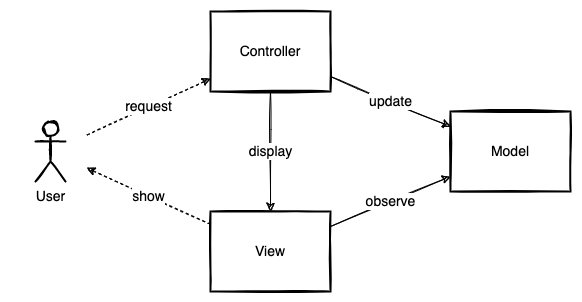
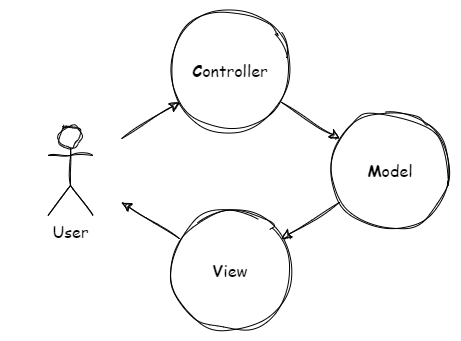
fix: タイトル、本文、挿絵のリファイン

Changed region(s): [[0.2126, 0.0, 1.0, 0.9834], [0.0607, 0.3576, 0.2126, 0.7152], [0.1822, 0.596, 0.3341, 0.6854]]

diff --git a/_posts/2022-03-19-existence-of-content-and-instrumentality-of-user-interface.md b/_posts/2022-03-19-existence-of-content-and-instrumentality-of-user-interface.md
@@ -1,41 +1,61 @@
 ---
 layout: post
-title: 情報・コンテンツの存在とユーザーインタフェースの道具性
+title: 情報・コンテンツの存在と道具としてのユーザーインタフェース
 tags: 
 - software-design
 ---
 
-GUIを分析するには、または設計するにしても、そのGUIを方向づける元になっている情報・コンテンツに焦点を当てます。インタラクティブなアプリケーションは概念的にMVCの形をしています。優れたユーザーインタフェースからは元の情報・コンテンツを感じとることができます。情報・コンテンツの存在はユーザーインタフェースを設計するときにも重要です。
+GUIを分析・設計するには、何を根拠にするのがよいでしょうか？GUIの操作対象である情報・コンテンツに焦点を当ててみましょう。インタラクティブなアプリケーションは概念的にMVCの形をしています。優れたユーザーインタフェースには元の情報・コンテンツを感じさせる何かがあります。情報・コンテンツの存在はユーザーインタフェースを決定づける重要な要素なのです。
+
+開発対象の類似サービスを調査するにあたって、どのようにアプリケーションを捉えて観察するのがよいかを考察してみました。
 
 # インタラクティブなアプリケーションはMVCの形をしている
 
-ユーザーと相互作用するアプリケーションは概念的にMVCの形をしています。OSのGUIやWebサービスはユーザーと相互作用するアプリケーションです。インタラクティブなアプリケーションはユーザーと、システムの状態との間を取り持ちます。インタラクティブなアプリケーションはシステムの状態を表示して、ユーザーに何かを見せることができます。また、インタラクティブなアプリケーションはシステムの状態を変更して、ユーザーに何かを操作させることができます。ユーザーが見て操作するのは情報・コンテンツです。ユーザーと情報・コンテンツ、その間にある参照と操作の関係は概念的にMVCの形をしているのです。
+インタラクティブなアプリケーションは、**ユーザーとシステムの状態との間を取り持ちます**。OSのGUIやWebサービスはユーザーと相互作用するアプリケーションです。
+
+インタラクティブなアプリケーションはシステムの状態を表示して、ユーザーに"何か"を見せます。また、インタラクティブなアプリケーションはシステムの状態を変更して、ユーザーに"何か"を操作させます。**ユーザーが見て、操作するのは情報・コンテンツです**。
 
 ![MVC-U](../images/existence-of-content-and-instrumentality-of-user-interface/MVC-U.png)
 
-MVCとはインタラクティブなアプリケーションのユーザーインタフェースを設計するためのパラダイムです。MVCのMはモデルです。モデルはドメインに特化したアプリケーションの中心的構造です。MVCのVはビューです。ビューはモデルからデータを要求してグラフィカルに表示するすべてのものです。MVCのCはコントローラーです。コントローラーはモデルとビュー、入力装置（キーボードやマウス、タイマー）の橋渡しをします。MVCは概念的なパラダイムなので、実装にはいくつもの派生があります。しかし、たとえば、observerパターンでビューとモデルを実装するというテクニカルな面は重要ではありません。重要なのはMVCの概念やパラダイムそのものです。
+ユーザーと情報・コンテンツ、その間にある参照と操作の関係は概念的にMVCの形をしています。MVCのMはモデルです。モデルはドメインに特化したアプリケーションの中心的構造です。MVCのVはビューです。ビューはモデルからデータを要求してグラフィカルに表示するすべてのものです。MVCのCはコントローラーです。コントローラーはモデルとビュー、入力装置（キーボードやマウス、タイマー）の橋渡しをします。
 
-![MV-U](../images/existence-of-content-and-instrumentality-of-user-interface/MV-U.png)
+MVCとは**インタラクティブなアプリケーションのユーザーインタフェースを設計するためのパラダイム**です。重要なのはMVCの概念やパラダイムそのものです。たとえば、"オブザーバー・パターンでビューとモデルを実装する"というテクニカルな面は重要ではありません。
 
-ユーザーのメンタルモデルとシステム上のデジタルモデルとのギャップをつなぎ合わせることがMVCの本質的な目的です。ユーザーインタフェースは情報・コンテンツを直接操作する体験―イリュージョン―をユーザーに与えます。ユーザーは、異なる場面や異なる視点で、同じ情報を見たり操作したりすることがあります。たとえば、情報を一覧して表示することもあれば、個別に表示することもあります。また、情報を表形式で表示することもあれば、グラフ形式で表示することもあります。いずれにしてもユーザーは同じ情報・コンテンツ見ていると理解できます。ユーザーはデスクトップ上のアイコンが、エクスプローラ（Finderかもしれません）上のアイテムと「同じもの」であることを知っているわけです。
+# 情報・コンテンツの存在
+
+![M-VC-U](../images/existence-of-content-and-instrumentality-of-user-interface/M-VC-U.png)
+
+**ユーザーのメンタルモデルとシステム上のデジタルモデルとのギャップをつなぎ合わせること**がMVCの本質的な目的です。ユーザーインタフェースは情報・コンテンツを直接操作する体験―イリュージョン―をユーザーに与えます。
+
+ユーザーは、異なる場面や異なる視点で、同じ情報を見たり操作したりすることがあります。たとえば、情報を一覧して表示することもあれば、個別に表示することもあります。また、情報を表形式で表示することもあれば、グラフ形式で表示することもあります。いずれにしても**ユーザーは同じ情報・コンテンツ見ていると理解する**ことができます。ユーザーはデスクトップ上のアイコンが、エクスプローラ（Finderかもしれません）上のアイテムと「同じもの」であることを知っているわけです。
 
 # 情報・コンテンツに方向づけられたユーザーインタフェース
 
-ユーザーは優れたユーザーインタフェースから元の情報・コンテンツを感じとることができます。優れたユーザーインタフェースは元の情報・コンテンツをよく反映しています。インタフェースに対する操作がインタフェースの見え方に反映されることで、ユーザーはインタフェースの先に情報・コンテンツがあると理解できます。異なる場面の異なる見え方に同じものが投影されているという同一性を認められるなら、ユーザーは同じ情報・コンテンツの違う側面を見ていると理解できます。優れたユーザーインタフェースはユーザーに情報・コンテンツを掌握させるのです。ユーザーはユーザーインタフェースを通じて情報・コンテンツを掌握している、そう感じさせられている、と言えるかもしれません。
+ユーザーインタフェースが元の情報・コンテンツをよく反映していれば、ユーザーはその優れたユーザーインタフェースから元の情報・コンテンツを感じとることができます。
+
+インタフェースに対する操作がインタフェースの見え方に反映されることで、ユーザーはインタフェースの先に情報・コンテンツがあると理解できます。異なる場面の異なる見え方に同じものが投影されているという同一性を認められるなら、ユーザーは同じ情報・コンテンツの違う側面を見ていると理解できます。
+
+優れたユーザーインタフェースはユーザーに情報・コンテンツを掌握させるのです。ユ**ーザーはユーザーインタフェースを通じて情報・コンテンツを掌握している、そう感じさせらる**、とも言えます。
 
 ![User interface](../images/existence-of-content-and-instrumentality-of-user-interface/User-interface.png)
 
-GUIを分析するには、そのGUIを方向づける元になっている情報・コンテンツに焦点を当てます。直接見て、触れて、観察できるのは画面の構成や機能です。しかし、画面の構成や機能だけに注目しないように気をつけます。何がその画面の構成や機能をそうさせているのかを考えます。その画面の構成や機能は偶然そうなっているのではありません。画面の構成や機能に反映されている何か―情報・コンテンツ―を探ります。ユーザーインタフェースが優れていれば、そこに情報・コンテンツに起因する一貫性を見出すことができるはずです。それこそがユーザーインタフェースの目的だからです。
+GUIを分析・設計するには、そのGUIを方向づける元になっている情報・コンテンツに焦点を当てましょう。直接見て、触れて、観察できるのは画面の構成や機能ですが、それだけに注目しないように気をつけます。何がその画面の構成や機能をそうさせているのかを考えます。
 
-![Instrument](../images/existence-of-content-and-instrumentality-of-user-interface/Instrument.png)
+画面の構成や機能に反映されている何か―情報・コンテンツ―を探ります。その画面の構成や機能は偶然そうなっているのではありません。ユーザーインタフェースが優れていれば、そこに情報・コンテンツに起因する一貫性を見出すことができるはずです。それこそがユーザーインタフェースの目的だからです。
 
-情報・コンテンツはユーザーインタフェースに先立ちます。情報・コンテンツの存在は、GUIを分析するときだけでなく、GUIを設計するときにも同じように重要です。画面の構成や機能、ユースケースを重要視しないわけではありません。もちろん、画面の構成や機能、ユースケースから考え出すこともあります。直接見て、触るものは想像しやすいのは間違いありません。しかし、最終的には情報・コンテンツの形を画面の構成や機能、ユースケースに反映させていきます。情報・コンテンツの形が曖昧だと、画面の構成や機能、ユースケースはいびつなパッチワークになってしまいます。一方、情報・コンテンツによく方向づけられたユーザーインタフェースはユーザーにとってよい道具になり、ユーザーを対象の情報・コンテンツに近づける手段になり得ます。
+# 道具としてのユーザーインタフェース
+
+![Implement](../images/existence-of-content-and-instrumentality-of-user-interface/Implement.png)
+
+**情報・コンテンツはユーザーインタフェースに先立ちます**。もちろん、画面の構成や機能、ユースケースから考え出すこともあります。画面の構成や機能、ユースケースを重要視しないわけではありません。直接見て、触るものは想像しやすいのは間違いありません。しかし、最終的には情報・コンテンツの形を画面の構成や機能、ユースケースに反映します。
+
+情報・コンテンツによく方向づけられたユーザーインタフェースは**ユーザーにとってよい道具になり、ユーザーを対象の情報・コンテンツに近づける手段になり得ます**。一方、情報・コンテンツの形が曖昧だと、画面の構成や機能、ユースケースはいびつなパッチワークになってしまいます。
 
 ---
 
-開発対象の類似サービスを調査するにあたって、どのようにアプリケーションを捉えて観察するのがよいかを考察してみました。MVCが実現しようとするもともとの概念を知って、GUIとは、ユーザーのメンタルモデルとシステム上のデジタルモデルをつなげるものであることが分かりました。優れたユーザーインタフェースからはその先の情報・コンテンツを感じ取ることができることを述べました。また、ユーザーインタフェースを設計するときにも情報・コンテンツの存在が重要であることを述べました。
+MVCが実現しようとするもともとの概念を知って、GUIとは、ユーザーのメンタルモデルとシステム上のデジタルモデルをつなげるものであることが分かりました。優れたユーザーインタフェースからはその先の情報・コンテンツを感じ取ることができることを述べました。また、ユーザーインタフェースを分析・設計するのに情報・コンテンツの存在が重要であることを述べました。
 
-考察してみたことで、テクニカルな面や画面の構成、機能などに目を向けてしまいがちであったことにも気がつきました。情報・コンテンツの存在に気がつくと、システムの見え方がまた少し変わってきそうです。
+この考察をしてみたことで、テクニカルな面や画面の構成、機能などに目を向けてしまいがちであったことにも気がつきました。情報・コンテンツの存在に気がつくと、システムの見え方がまた少し変わってきそうです。
 
 # 参考
 
